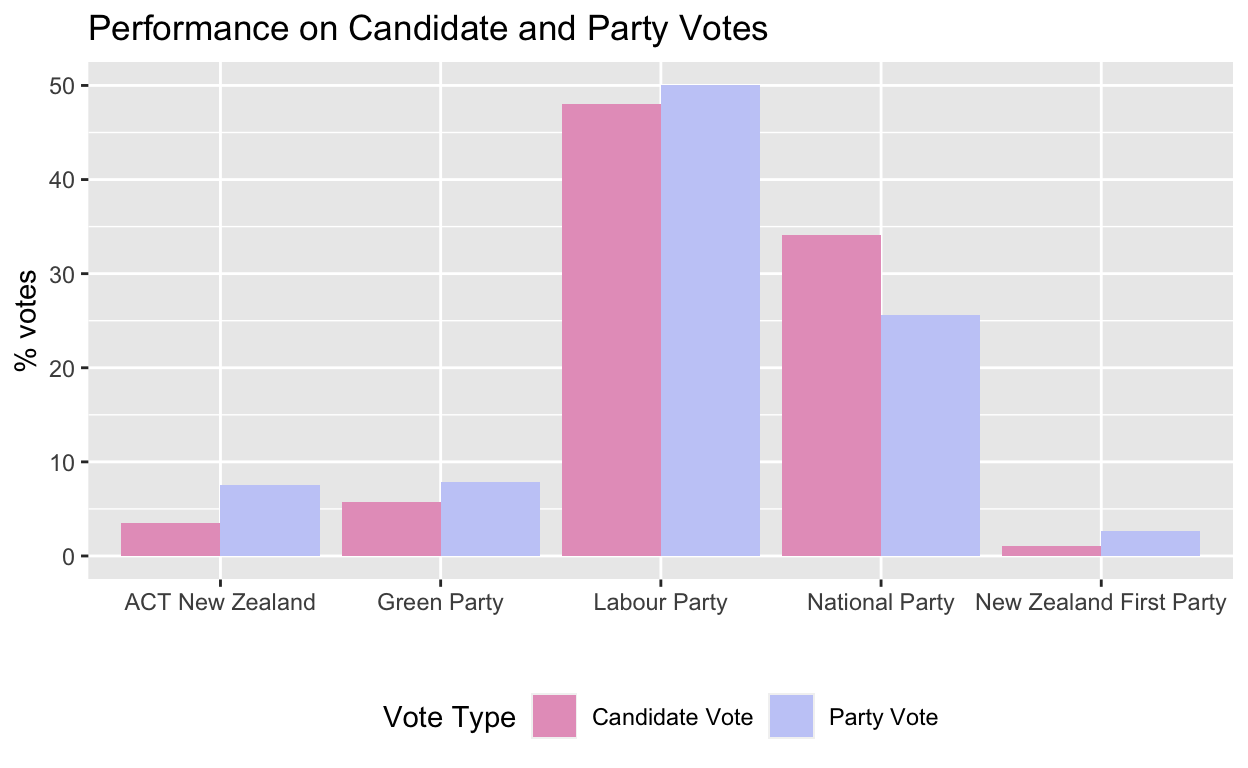
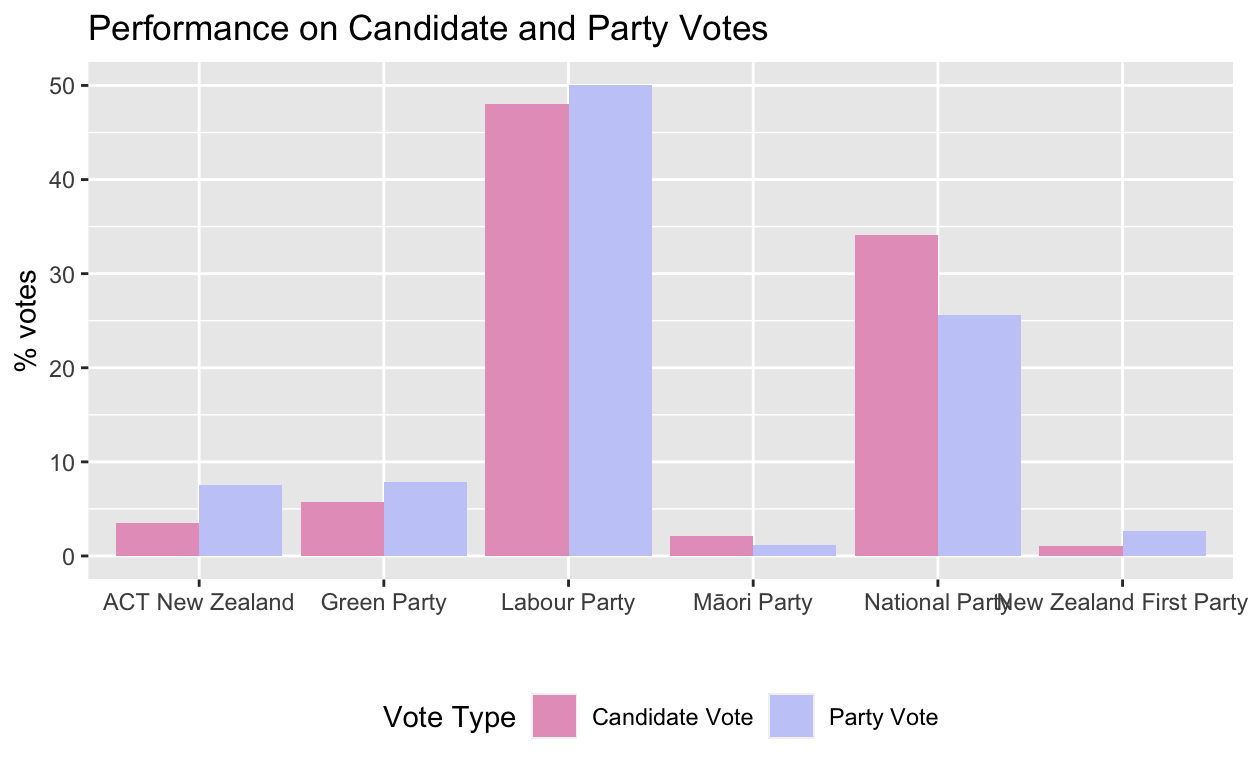
Update the specials post

diff --git a/_posts/2020-11-15-nzge-2020-all-the-votes-are-in/nzge-2020-all-the-votes-are-in.html b/_posts/2020-11-15-nzge-2020-all-the-votes-are-in/nzge-2020-all-the-votes-are-in.html
@@ -109,12 +109,12 @@ code span.wa { color: #545454; font-weight: bold; font-style: italic; } /* Warni
   <!--radix_placeholder_rmarkdown_metadata-->
   
   <script type="text/json" id="radix-rmarkdown-metadata">
-  {"type":"list","attributes":{"names":{"type":"character","attributes":{},"value":["title","description","author","categories","date","output"]}},"value":[{"type":"character","attributes":{},"value":["NZGE 2020: All the Votes Are In"]},{"type":"character","attributes":{},"value":["I look at how the various parties and their candidates performed across \nNew Zealand's 72 electorates.\n"]},{"type":"list","attributes":{},"value":[{"type":"list","attributes":{"names":{"type":"character","attributes":{},"value":["name","url","affiliation"]}},"value":[{"type":"character","attributes":{},"value":["Mitchell Palmer"]},{"type":"character","attributes":{},"value":["https://mitchellpalmer.nz"]},{"type":"character","attributes":{},"value":["Yale-NUS College"]}]}]},{"type":"character","attributes":{},"value":["New Zealand","Politics","Elections"]},{"type":"character","attributes":{},"value":["11-15-2020"]},{"type":"list","attributes":{"names":{"type":"character","attributes":{},"value":["distill::distill_article"]}},"value":[{"type":"list","attributes":{"names":{"type":"character","attributes":{},"value":["self_contained"]}},"value":[{"type":"logical","attributes":{},"value":[false]}]}]}]}
+  {"type":"list","attributes":{"names":{"type":"character","attributes":{},"value":["title","description","author","categories","date","output"]}},"value":[{"type":"character","attributes":{},"value":["NZGE 2020: All the Votes Are In"]},{"type":"character","attributes":{},"value":["I look at how the various parties and their candidates performed across \nNew Zealand's 72 electorates.\n"]},{"type":"list","attributes":{},"value":[{"type":"list","attributes":{"names":{"type":"character","attributes":{},"value":["name","url","affiliation"]}},"value":[{"type":"character","attributes":{},"value":["Mitchell Palmer"]},{"type":"character","attributes":{},"value":["https://mitchellpalmer.nz"]},{"type":"character","attributes":{},"value":["Yale-NUS College"]}]}]},{"type":"character","attributes":{},"value":["New Zealand","Politics","Elections"]},{"type":"character","attributes":{},"value":["11-15-2020"]},{"type":"list","attributes":{"names":{"type":"character","attributes":{},"value":["distill::distill_article"]}},"value":[{"type":"list","attributes":{"names":{"type":"character","attributes":{},"value":["self_contained","toc","toc_depth"]}},"value":[{"type":"logical","attributes":{},"value":[false]},{"type":"logical","attributes":{},"value":[true]},{"type":"integer","attributes":{},"value":[2]}]}]}]}
   </script>
   <!--/radix_placeholder_rmarkdown_metadata-->
   
   <script type="text/json" id="radix-resource-manifest">
-  {"type":"character","attributes":{},"value":["Coded_to_regions.csv","nzge-2020-all-the-votes-are-in_files/anchor-4.2.2/anchor.min.js","nzge-2020-all-the-votes-are-in_files/bowser-1.9.3/bowser.min.js","nzge-2020-all-the-votes-are-in_files/distill-2.2.21/template.v2.js","nzge-2020-all-the-votes-are-in_files/figure-html5/unnamed-chunk-1-1.png","nzge-2020-all-the-votes-are-in_files/figure-html5/unnamed-chunk-1-2.png","nzge-2020-all-the-votes-are-in_files/figure-html5/unnamed-chunk-10-1.png","nzge-2020-all-the-votes-are-in_files/figure-html5/unnamed-chunk-7-1.png","nzge-2020-all-the-votes-are-in_files/jquery-1.11.3/jquery.min.js","nzge-2020-all-the-votes-are-in_files/pagedtable-1.1/css/pagedtable.css","nzge-2020-all-the-votes-are-in_files/pagedtable-1.1/js/pagedtable.js","nzge-2020-all-the-votes-are-in_files/webcomponents-2.0.0/webcomponents.js","observations_2020-10-18.csv","observations_2020-11-15.csv","scraper.py"]}
+  {"type":"character","attributes":{},"value":["Coded_to_regions.csv","nzge-2020-all-the-votes-are-in_files/anchor-4.2.2/anchor.min.js","nzge-2020-all-the-votes-are-in_files/bowser-1.9.3/bowser.min.js","nzge-2020-all-the-votes-are-in_files/distill-2.2.21/template.v2.js","nzge-2020-all-the-votes-are-in_files/figure-html5/unnamed-chunk-1-1.png","nzge-2020-all-the-votes-are-in_files/figure-html5/unnamed-chunk-1-2.png","nzge-2020-all-the-votes-are-in_files/figure-html5/unnamed-chunk-10-1.png","nzge-2020-all-the-votes-are-in_files/figure-html5/unnamed-chunk-15-1.png","nzge-2020-all-the-votes-are-in_files/figure-html5/unnamed-chunk-7-1.png","nzge-2020-all-the-votes-are-in_files/jquery-1.11.3/jquery.min.js","nzge-2020-all-the-votes-are-in_files/pagedtable-1.1/css/pagedtable.css","nzge-2020-all-the-votes-are-in_files/pagedtable-1.1/js/pagedtable.js","nzge-2020-all-the-votes-are-in_files/webcomponents-2.0.0/webcomponents.js","observations_2020-10-18.csv","observations_2020-11-15.csv","scraper.py"]}
   </script>
   <!--radix_placeholder_navigation_in_header-->
   <!--/radix_placeholder_navigation_in_header-->
@@ -1448,15 +1448,29 @@ code span.wa { color: #545454; font-weight: bold; font-style: italic; } /* Warni
 </div>
 
 <div class="d-article">
-<p><em>I wrote a <a href="posts/2020-11-15-nz-general-election-2020-election-night-analysis-by-electorate/">post on Election Night</a> laying out how the various parties performed across the 72 electorates in New Zealand. Since then, approximately half a million votes more have been counted. A number of people, both on Twitter and in private correspondence, have asked me to update my analysis with those new numbers. That’s what this post does.</em></p>
-<p><em>The specials did not really shift the broad picture – destruction for National and elation for Labour – but simply emphasised it (with the possible exeception of the Maori Party getting two MPs). This post is therefore essentially a copy-paste of my previous analysis with annotations explaining how the inclusion of the special votes has changed the story:</em> <del>Struck-through</del> <em>text is text which appeared in the original version, but is no longer true when special votes are counted.</em> <strong>Bold</strong> <em>text is new with special votes. The graphs and tables and in-text numbers are entirely populated with new data. You can see the pre-specials figures <a href="posts/2020-11-15-nz-general-election-2020-election-night-analysis-by-electorate/">here</a>.</em></p>
+<div class="d-contents d-contents-float">
+<nav class="l-text toc figcaption" id="TOC">
+<h3>Contents</h3>
+<ul>
+<li><a href="#why-is-this-interesting">Why is this interesting?</a></li>
+<li><a href="#how-did-the-parties-do">How did the parties do?</a></li>
+<li><a href="#how-did-the-candidates-do">How did the candidates do?</a></li>
+<li><a href="#where-did-they-do-well">Where did they do well?</a></li>
+<li><a href="#how-concentrated-was-each-parties-support-new">How concentrated was each parties’ support? [NEW]</a></li>
+<li><a href="#how-were-the-special-votes-distributed-new">How were the special votes distributed? [NEW]</a></li>
+</ul>
+</nav>
+</div>
+<p>I wrote a <a href="/posts/2020-11-15-nz-general-election-2020-election-night-analysis-by-electorate/">post on Election Night</a> laying out how the various parties performed across the 72 electorates in New Zealand. Since then, approximately half a million more <a href="https://www.rnz.co.nz/news/political/428614/election-2020-special-votes-explained">special</a> votes have been counted. A number of people, both on Twitter and in private correspondence, have asked me to update my analysis with those new numbers. That’s what this post does.</p>
+<p>The specials did not really shift the broad picture – destruction for National and elation for Labour – but simply emphasised it (with the possible exeception of the Māori Party getting two MPs).This post is therefore essentially a copy-paste of my previous analysis with annotations explaining how the inclusion of the special votes has changed the story: <del>Struck-through</del> text is text which appeared in the original version, but is no longer true when special votes are counted. <strong>Bold</strong> text is new with special votes. The graphs and tables and in-text numbers are entirely populated with new data. You can see the pre-specials figures <a href="/posts/2020-11-15-nz-general-election-2020-election-night-analysis-by-electorate/">here</a>. Some new analysis, including of the effect and spread of special votes, is included at the end.</p>
+<hr />
 <p>Wow. What a result. The broad national narrative of Election 2020 for each party seems clear:</p>
 <ul>
 <li>Labour got a stonking victory, delivering a massive personal mandate for Jacinda Ardern</li>
 <li>National had a dismal night, which managed to be worse than expected</li>
 <li>ACT had a great night, confirming months of positive polling</li>
 <li>The Greens outperformed, though perhaps Labour’s result was marginally too good for their tastes.</li>
-<li>The Māori Party might be back from the dead</li>
+<li>The Māori Party <del>might be</del> <strong>are</strong> back from the dead</li>
 <li>New Zealand First should be dead for good – although making that prediction is perhaps never wise</li>
 </ul>
 <p>However there is also much to be said about the individual constituencies at play. That is what I’m going to do in this post. I’m not making an argument in this post, just exploring the data to see what happens.</p>
@@ -1469,7 +1483,8 @@ code span.wa { color: #545454; font-weight: bold; font-style: italic; } /* Warni
 <li>Please feel free to email me at mp (at) mitchellpalmer.nz if you have any questions.</li>
 </ol>
 <aside>
-I no longer have the excuse of lateness or urgency if anything is broken, but please still let me know if you spot anything amiss.
+<p>I no longer have the excuse of lateness or urgency if anything is broken, but please still let me know if you spot anything amiss.</p>
+In addition, I should disclose that I worked for ACT during this election, not that there is much opportunity for any of this analysis to take a partisan slant.
 </aside>
 <h1 id="why-is-this-interesting">Why is this interesting?</h1>
 <p>Finding out where the votes for each party were found tells us a lot about their electoral strategy and the coalitions they have built. It also lets us find out who the most popular MPs are, aside from their party affiliation.</p>
@@ -1480,10 +1495,7 @@ I no longer have the excuse of lateness or urgency if anything is broken, but pl
 <div class="layout-chunk" data-layout="l-body">
 <p><img src="nzge-2020-all-the-votes-are-in_files/figure-html5/unnamed-chunk-1-1.png" width="624" /><img src="nzge-2020-all-the-votes-are-in_files/figure-html5/unnamed-chunk-1-2.png" width="624" /></p>
 </div>
-<p>Clearly, National significantly outperformed in candidate votes compared to their party vote performance. That is mirrored in the constituency counts: National had the plurality (i.e., the most votes) of candidate votes in <del>26</del> <strong>23</strong> electorates, but the plurality of party votes in only <del>4</del> <strong>1</strong>. Why? Three possibilities occur to me (ranked in order of estimated importance):</p>
-<aside>
-The overall party vote percentage National recieved did not fall massively with the inclusion of the special votes (from 26.8% before to 25.6% after), but the fact that that small 1.2% swing shifted three solidly blue electorates to having Labour pluralities in the party vote simply shows how badly National were beaten.
-</aside>
+<p>Clearly, National significantly outperformed in candidate votes compared to their party vote performance. That is mirrored in the constituency counts: National had the plurality (i.e., the most votes) of candidate votes in <del>26</del> <strong>23</strong> electorates, but the plurality of party votes in only <del>four</del> <strong>one</strong><a href="#fn1" class="footnote-ref" id="fnref1"><sup>1</sup></a>. Why? Three possibilities occur to me (ranked in order of estimated importance):</p>
 <ol type="1">
 <li>Electorate votes are sticky: Perhaps voters are less willing to abandon their local MP, to whom they can attach a face and a name, than parties, which after all are simply brands. Given National won the most electorates in 2017, that this stickiness favoured National is unsurprising.</li>
 <li>National’s local campaigns were better than their national campaign: Perhaps the collegial nature of constituency committees and the independent mandates of MPs with their supporters meant that local campaigns worked together better than the chaotic national National Party.</li>
@@ -1518,8 +1530,8 @@ I think reason 3 is especially doubtful given the <a href="https://www.politik.c
 <div class="layout-chunk" data-layout="l-body">
 
 </div>
-<p>Notably absent from that list are National strongholds like Pakuranga (where Simeon Brown won by 1.00510^{4}), Selwyn (where Nicola Grigg won by a distance of 4968) and Judith Collins’ own seat of Papakura (which she took by 5583 votes). Those are a lot of traditionally National seats where another party (i.e., Labour) won the most votes. Those are seats National may well have lost in a first-past-the-post system.</p>
-<p>But, perhaps National suffered from the success of its resurgent partners, ACT? Those are still votes for the right, so they shouldn’t count as real loses, the logic might go. While that certainly does help, it doesn’t make a real difference: In a good-old-fashioned two-party FPP election, National would still have lost resoundingly. When one sums the left bloc (Greens and Labour) and the right bloc (ACT and National), the right still only takes <del>12</del> <strong>9</strong> seats out of 72 avaliable, none of which they would hold by more than 2200 votes. Even Pakuranga, Judith Collin’s own seat, would have been marginal: The right led there by less than 156 votes.</p>
+<p>Notably absent from that list are National strongholds like Pakuranga (where Simeon Brown won by 10050), Selwyn (where Nicola Grigg won by a distance of 4968) and Judith Collins’ own seat of Papakura (which she took by 5583 votes). Those are a lot of traditionally National seats where another party (i.e., Labour) won the most votes. Those are seats National may well have lost in a first-past-the-post system.</p>
+<p>But, perhaps National suffered from the success of its resurgent partners, ACT? Those are still votes for the right, so they shouldn’t count as real loses, the logic might go. While that certainly does help, it doesn’t make a real difference: In a good-old-fashioned two-party FPP election, National would still have lost resoundingly. When one sums the left bloc (Greens and Labour) and the right bloc (ACT and National), the right still only takes <del>12</del> <strong>9</strong> seats out of 72 avaliable, none of which they would hold by more than <del>3000</del> <strong>2,200</strong> votes. <del>Even Selwyn, long National’s safest seat or close to it, would have been marginal: The right led there by less than 700 votes.</del> <strong>Even Epsom, long one of the bluest (in party vote terms) seats in the country, would have been held by only 349 votes.</strong></p>
 <div class="layout-chunk" data-layout="l-body">
 <table>
 <thead>
@@ -1625,7 +1637,184 @@ N.b., this interactive tool has not yet been updated to include special votes.
 <div class="layout-chunk" data-layout="l-body">
 <p><img src="nzge-2020-all-the-votes-are-in_files/figure-html5/unnamed-chunk-10-1.png" width="624" /></p>
 </div>
+<h1 id="how-concentrated-was-each-parties-support-new">How concentrated was each parties’ support? [NEW]</h1>
+<p>My intuiton was that some parties (e.g., the Greens) tend to amass their party votes in a small number of electorates, by running up large totals, whereas others have broader geoegraphical support. The easiest way to see this is to calculate the number of electorate party vote totals one must add together to get to 50% (or any arbitrary proportion) of that party’s nationwide vote. These are the results of doing just that, bearing out my initial hypothesis – the Greens got more than half of their votes in only 20 electorates, whereas Labour took 32 electorates to recieve 50% of their overall votes. Naturally, the Māori Party also had very concentrated support – in the Māori seats.</p>
+<div class="layout-chunk" data-layout="l-body">
+<table>
+<thead>
+<tr class="header">
+<th style="text-align: left;">party</th>
+<th style="text-align: right;">n_elecs</th>
+</tr>
+</thead>
+<tbody>
+<tr class="odd">
+<td style="text-align: left;">ACT New Zealand</td>
+<td style="text-align: right;">25</td>
+</tr>
+<tr class="even">
+<td style="text-align: left;">Green Party</td>
+<td style="text-align: right;">20</td>
+</tr>
+<tr class="odd">
+<td style="text-align: left;">Labour Party</td>
+<td style="text-align: right;">32</td>
+</tr>
+<tr class="even">
+<td style="text-align: left;">Māori Party</td>
+<td style="text-align: right;">5</td>
+</tr>
+<tr class="odd">
+<td style="text-align: left;">National Party</td>
+<td style="text-align: right;">26</td>
+</tr>
+<tr class="even">
+<td style="text-align: left;">New Zealand First Party</td>
+<td style="text-align: right;">28</td>
+</tr>
+</tbody>
+</table>
+</div>
+<h1 id="how-were-the-special-votes-distributed-new">How were the special votes distributed? [NEW]</h1>
+<div class="layout-chunk" data-layout="l-body">
+
+</div>
+<p>Special votes are not evenly distributed. Some electorates see many more voters casting special votes (which you must cast if you are registering on the day of the election, are overseas [like I was], or cast your vote in a different electorate to the one in which you are registered). Most commentators (and I) believe that special voters skew younger than the population as a whole – I am unaware of any empirical evidence for this supposition though, although perhaps it could be found in the excellent <a href="http://www.nzes.org">New Zealand Election Survey</a>. Generally, specials are expected to favour the left.</p>
+<p>These are the electorates sorted by the percentage of their party votes cast via a special vote:</p>
+<div class="layout-chunk" data-layout="l-body">
+<div data-pagedtable="false">
+<script data-pagedtable-source type="application/json">
+{"columns":[{"label":["electorate"],"name":[1],"type":["chr"],"align":["left"]},{"label":["specials_pct"],"name":[2],"type":["dbl"],"align":["right"]},{"label":["total_special_party_votes"],"name":[3],"type":["dbl"],"align":["right"]}],"data":[{"1":"Māngere","2":"33.10817","3":"10342"},{"1":"Manurewa","2":"31.26957","3":"9288"},{"1":"Hauraki-Waikato","2":"29.52373","3":"7042"},{"1":"Tāmaki Makaurau","2":"28.99069","3":"7626"},{"1":"Panmure-Ōtāhuhu","2":"27.65702","3":"8538"},{"1":"Auckland Central","2":"27.14731","3":"9839"},{"1":"Takanini","2":"26.32801","3":"9526"},{"1":"Te Tai Tonga","2":"26.26778","3":"7573"},{"1":"Te Tai Hauāuru","2":"25.91164","3":"6516"},{"1":"Te Tai Tokerau","2":"25.78154","3":"7043"},{"1":"Waiariki","2":"24.37380","3":"6471"},{"1":"Ikaroa-Rāwhiti","2":"23.92831","3":"5928"},{"1":"Mt Roskill","2":"23.07449","3":"8760"},{"1":"Epsom","2":"22.32192","3":"9304"},{"1":"Maungakiekie","2":"21.85662","3":"8137"},{"1":"Kaipara ki Mahurangi","2":"21.54515","3":"9861"},{"1":"Kelston","2":"21.46078","3":"7519"},{"1":"Papakura","2":"21.03198","3":"8360"},{"1":"Mt Albert","2":"20.76788","3":"8606"},{"1":"Wellington Central","2":"20.71908","3":"9906"},{"1":"Upper Harbour","2":"19.40284","3":"7785"},{"1":"Christchurch Central","2":"18.73410","3":"7512"},{"1":"Te Atatū","2":"18.72752","3":"7132"},{"1":"Bay of Plenty","2":"18.72394","3":"8352"},{"1":"New Lynn","2":"18.33859","3":"7614"},{"1":"Hamilton East","2":"17.90517","3":"7043"},{"1":"Tāmaki","2":"17.88065","3":"7416"},{"1":"Hamilton West","2":"17.83837","3":"7092"},{"1":"Botany","2":"17.35744","3":"6529"},{"1":"Rongotai","2":"17.28134","3":"7844"},{"1":"Wigram","2":"17.25549","3":"6662"},{"1":"Ilam","2":"17.04217","3":"7360"},{"1":"Christchurch East","2":"17.00864","3":"6872"},{"1":"North Shore","2":"16.69557","3":"7027"},{"1":"Taranaki-King Country","2":"16.57327","3":"6743"},{"1":"Northcote","2":"16.55603","3":"6634"},{"1":"Whangaparāoa","2":"16.34536","3":"7351"},{"1":"Mana","2":"16.31905","3":"6987"},{"1":"East Coast Bays","2":"16.31104","3":"6230"},{"1":"Pakuranga","2":"16.12696","3":"6021"},{"1":"Ōtaki","2":"16.07412","3":"7347"},{"1":"Waikato","2":"15.98875","3":"6596"},{"1":"Port Waikato","2":"15.95819","3":"6412"},{"1":"Hutt South","2":"15.62362","3":"7080"},{"1":"Tauranga","2":"15.21699","3":"6585"},{"1":"Remutaka","2":"15.19037","3":"6539"},{"1":"Ōhāriu","2":"15.09061","3":"6562"},{"1":"Rotorua","2":"15.05967","3":"5679"},{"1":"Taupō","2":"14.80472","3":"6463"},{"1":"Dunedin","2":"14.74440","3":"6755"},{"1":"Palmerston North","2":"14.73881","3":"5674"},{"1":"Banks Peninsula","2":"14.52948","3":"7161"},{"1":"East Coast","2":"14.11531","3":"5893"},{"1":"Selwyn","2":"14.04800","3":"5994"},{"1":"Tukituki","2":"13.89636","3":"5787"},{"1":"Rangitīkei","2":"13.86390","3":"5733"},{"1":"Whangārei","2":"13.28747","3":"5794"},{"1":"Northland","2":"13.28451","3":"5914"},{"1":"Nelson","2":"13.21589","3":"5799"},{"1":"Coromandel","2":"13.21031","3":"6142"},{"1":"Napier","2":"13.06829","3":"5450"},{"1":"New Plymouth","2":"13.03979","3":"5683"},{"1":"Whanganui","2":"12.96022","3":"5252"},{"1":"Kaikōura","2":"12.93786","3":"5507"},{"1":"Waimakariri","2":"12.54933","3":"5787"},{"1":"Southland","2":"12.47891","3":"4881"},{"1":"Taieri","2":"12.46772","3":"5553"},{"1":"Waitaki","2":"12.20333","3":"5332"},{"1":"West Coast-Tasman","2":"12.08451","3":"5148"},{"1":"Wairarapa","2":"11.74727","3":"5230"},{"1":"Invercargill","2":"10.94791","3":"4338"},{"1":"Rangitata","2":"10.37288","3":"4373"}],"options":{"columns":{"min":{},"max":[10]},"rows":{"min":[10],"max":[10]},"pages":{}}}
+  </script>
+</div>
+</div>
+<p>Within the general electorates, there is a very clear urban/rural divide, showing much higher special voting rates in the cities. This makes sense demographically (citydwellers tend to be younger) and geographically (in rural areas, with larger electorates, it is more unlikely that the nearest polling booth to your house or work will be outside your electorate).</p>
+<p>The Māori electorates also all see very high special vote proportions. Apart from age (the Māori population is younger than the rest of New Zealand) and lower enrollment rates overall, I have no good theories as to why this is – the geographic explanation doesn’t appear to work for such large electorates.</p>
+<p>The next question which occured to me is where were special votes pivotal to determining election outcomes? These are the electorates where the apparent winner on election night turns out, once specials are counted, to have come second:</p>
+<div class="layout-chunk" data-layout="l-body">
+<table>
+<thead>
+<tr class="header">
+<th style="text-align: left;">electorate</th>
+<th style="text-align: left;">final_winner</th>
+<th style="text-align: left;">runner_up</th>
+<th style="text-align: right;">margin_election_night</th>
+<th style="text-align: right;">margin_final</th>
+</tr>
+</thead>
+<tbody>
+<tr class="odd">
+<td style="text-align: left;">Maungakiekie</td>
+<td style="text-align: left;">RADHAKRISHNAN, Priyanca</td>
+<td style="text-align: left;">LEE, Denise</td>
+<td style="text-align: right;">580</td>
+<td style="text-align: right;">635</td>
+</tr>
+<tr class="even">
+<td style="text-align: left;">Northland</td>
+<td style="text-align: left;">PRIME, Willow-Jean</td>
+<td style="text-align: left;">KING, Matt</td>
+<td style="text-align: right;">729</td>
+<td style="text-align: right;">163</td>
+</tr>
+<tr class="odd">
+<td style="text-align: left;">Whangārei</td>
+<td style="text-align: left;">HENDERSON, Emily</td>
+<td style="text-align: left;">RETI, Shane</td>
+<td style="text-align: right;">164</td>
+<td style="text-align: right;">431</td>
+</tr>
+</tbody>
+</table>
+</div>
+<p>Electorate races though, of course, are mostly important to minor parties and to the pride of MPs and candidates. The crucial question is how special votes affect the makeup of Parliament through Party votes. That is basically a function of two things – how many special votes there were overall (496834 is the answer) and how those votes divided between the parties.</p>
+<p>This shows the overall proportions of party votes won by each party before and after specials. It confirms what I said in the introduction: Nothing really changed with specials, except that Labour’s lead got marginally larger and the Māori Party got enough for a second seat.</p>
+<div class="layout-chunk" data-layout="l-body">
+<p><img src="nzge-2020-all-the-votes-are-in_files/figure-html5/unnamed-chunk-15-1.png" width="624" /></p>
+</div>
+<p>You can only really see the effects in a table:</p>
+<div class="layout-chunk" data-layout="l-body">
+<table>
+<thead>
+<tr class="header">
+<th style="text-align: left;">party</th>
+<th style="text-align: right;">share_pre_specials</th>
+<th style="text-align: right;">share_specials</th>
+<th style="text-align: right;">share_post_specials</th>
+</tr>
+</thead>
+<tbody>
+<tr class="odd">
+<td style="text-align: left;">Labour Party</td>
+<td style="text-align: right;">49.49</td>
+<td style="text-align: right;">54.75</td>
+<td style="text-align: right;">50.40</td>
+</tr>
+<tr class="even">
+<td style="text-align: left;">National Party</td>
+<td style="text-align: right;">26.98</td>
+<td style="text-align: right;">20.06</td>
+<td style="text-align: right;">25.78</td>
+</tr>
+<tr class="odd">
+<td style="text-align: left;">Green Party</td>
+<td style="text-align: right;">7.62</td>
+<td style="text-align: right;">9.34</td>
+<td style="text-align: right;">7.92</td>
+</tr>
+<tr class="even">
+<td style="text-align: left;">ACT New Zealand</td>
+<td style="text-align: right;">8.03</td>
+<td style="text-align: right;">5.82</td>
+<td style="text-align: right;">7.65</td>
+</tr>
+<tr class="odd">
+<td style="text-align: left;">New Zealand First Party</td>
+<td style="text-align: right;">2.68</td>
+<td style="text-align: right;">2.31</td>
+<td style="text-align: right;">2.62</td>
+</tr>
+<tr class="even">
+<td style="text-align: left;">The Opportunities Party (TOP)</td>
+<td style="text-align: right;">1.42</td>
+<td style="text-align: right;">1.96</td>
+<td style="text-align: right;">1.52</td>
+</tr>
+<tr class="odd">
+<td style="text-align: left;">New Conservative</td>
+<td style="text-align: right;">1.52</td>
+<td style="text-align: right;">1.34</td>
+<td style="text-align: right;">1.49</td>
+</tr>
+<tr class="even">
+<td style="text-align: left;">Māori Party</td>
+<td style="text-align: right;">1.01</td>
+<td style="text-align: right;">1.95</td>
+<td style="text-align: right;">1.17</td>
+</tr>
+<tr class="odd">
+<td style="text-align: left;">Aotearoa Legalise Cannabis Party</td>
+<td style="text-align: right;">0.32</td>
+<td style="text-align: right;">1.16</td>
+<td style="text-align: right;">0.47</td>
+</tr>
+<tr class="even">
+<td style="text-align: left;">ONE Party</td>
+<td style="text-align: right;">0.27</td>
+<td style="text-align: right;">0.33</td>
+<td style="text-align: right;">0.28</td>
+</tr>
+</tbody>
+</table>
+</div>
+<p>There is nothing too surprising there: The left wing parties did better in specials, as expected.</p>
 <div class="sourceCode" id="cb1"><pre class="sourceCode r distill-force-highlighting-css"><code class="sourceCode r"></code></pre></div>
+<section class="footnotes">
+<hr />
+<ol>
+<li id="fn1"><p>The overall party vote percentage National recieved did not fall massively with the inclusion of the special votes (from 26.8% before to 25.6% after), but the fact that that small 1.2% swing shifted three solidly blue electorates to having Labour pluralities in the party vote simply shows how badly National were beaten.<a href="#fnref1" class="footnote-back">↩</a></p></li>
+</ol>
+</section>
 <!--radix_placeholder_article_footer-->
 <!--/radix_placeholder_article_footer-->
 </div>
